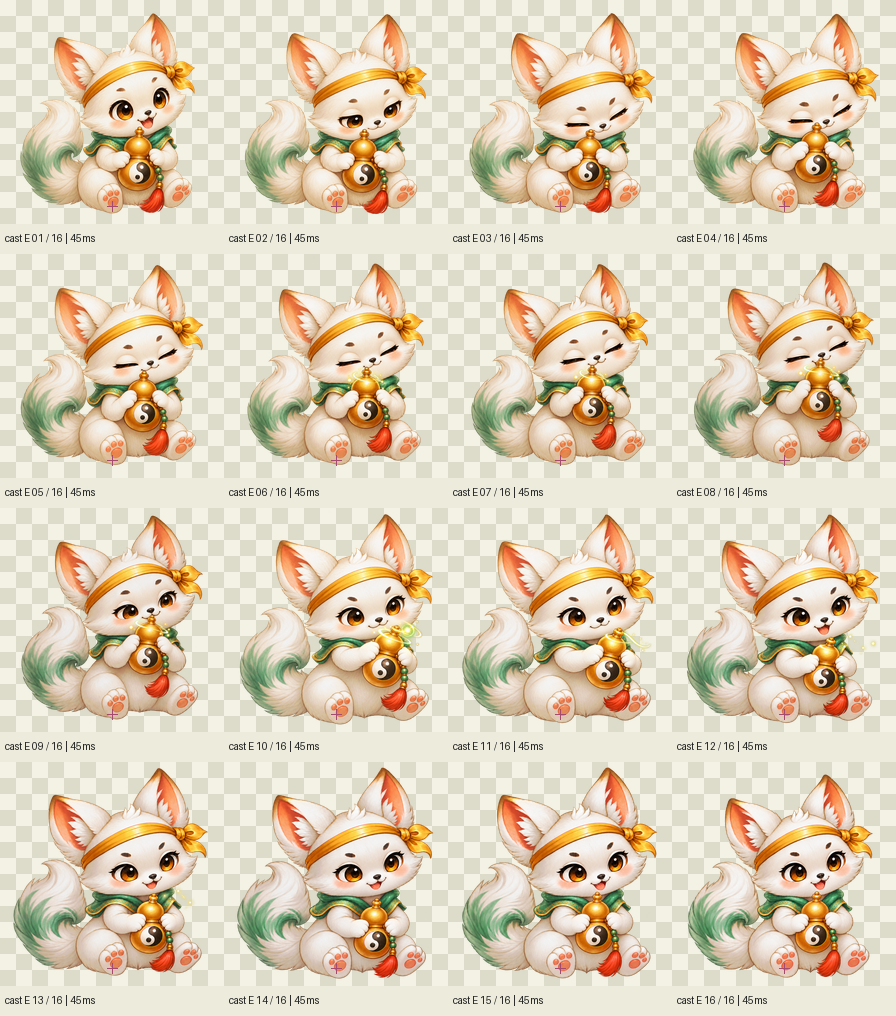
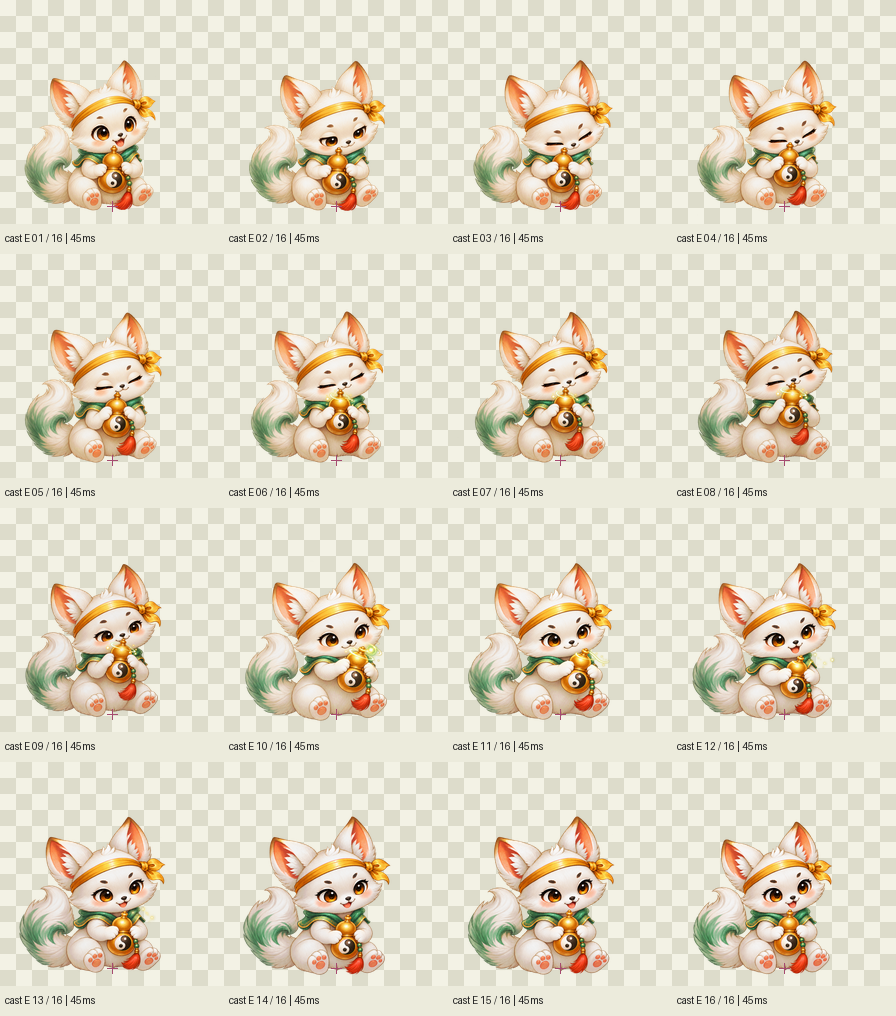
Save game artwork and production records batch 1818

diff --git a/designs/creature-combat-20261005/pets/legacy-hu-tuan-tuan/preview/cast-W/index.html b/designs/creature-combat-20261005/pets/legacy-hu-tuan-tuan/preview/cast-W/index.html
@@ -1,3 +1,3 @@
-<!doctype html><html lang="zh-CN"><meta charset="utf-8"><title>葫团团 W 施法验收</title><style>body{font-family:system-ui;background:#ece8dc;color:#193c31;margin:24px}button,select,input{font:inherit;margin:5px;padding:8px}canvas{background:repeating-conic-gradient(#d4d4cd 0% 25%,#ecece6 0% 50%) 0/32px 32px;max-width:75vh;max-height:75vh;border:1px solid #888}img{width:min(100%,1280px)}p{margin:8px}</style><h1>葫团团 W 施法 · 16 帧 × 45 ms</h1><p>固定完整画布，不做逐帧对齐。红十字为名义锚点 (512,942)。</p><button id="play">播放</button><button id="pause">暂停</button><button id="prev">上一帧</button><button id="next">下一帧</button><select id="speed"><option value="1">正常速度</option><option value="0.25">0.25 慢放</option></select><input id="seek" type="range" min="1" max="16" value="1"><b id="readout">01 / 16</b><p><canvas id="screen" width="1024" height="1024"></canvas></p><details><summary>逐帧总览</summary><img src="contact.png"></details><script>
+<!doctype html><html lang="zh-CN"><meta charset="utf-8"><title>葫团团 W 施法验收</title><style>body{font-family:system-ui;background:#ece8dc;color:#193c31;margin:24px}button,select,input{font:inherit;margin:5px;padding:8px}canvas{background:repeating-conic-gradient(#d4d4cd 0% 25%,#ecece6 0% 50%) 0/32px 32px;max-width:75vh;max-height:75vh;border:1px solid #888}img{width:min(100%,1280px)}p{margin:8px}</style><h1>葫团团 W 施法 · 16 帧 × 45 ms</h1><p>固定完整画布，不做逐帧对齐。红十字为名义锚点 (512,942)。</p><button id="play">播放</button><button id="pause">暂停</button><button id="prev">上一帧</button><button id="next">下一帧</button><select id="speed"><option value="1">正常速度</option><option value="0.25">0.25 慢放</option></select><input id="seek" type="range" min="1" max="16" value="1"><b id="readout">01 / 16</b><p><canvas id="screen" width="1024" height="1024"></canvas></p><details><summary>逐帧总览</summary><img src="../contact-cast-W.png"></details><script>
 const images=Array.from({length:16},(_,i)=>{const im=new Image;im.src='../../runtime/cast/W/'+String(i+1).padStart(2,'0')+'.png';return im});const c=document.querySelector('canvas'),g=c.getContext('2d'),seek=document.querySelector('#seek'),readout=document.querySelector('#readout');let frame=0,playing=false,start=0,startFrame=0;function draw(){g.clearRect(0,0,1024,1024);if(images[frame].complete)g.drawImage(images[frame],0,0);g.strokeStyle='#c90000';g.beginPath();g.moveTo(502,942);g.lineTo(522,942);g.moveTo(512,932);g.lineTo(512,952);g.stroke();seek.value=frame+1;readout.textContent=String(frame+1).padStart(2,'0')+' / 16';document.body.dataset.frame=frame+1;document.body.dataset.playing=playing;}function tick(t){if(playing){frame=(startFrame+Math.floor((t-start)*Number(document.querySelector('#speed').value)/45))%16;draw()}requestAnimationFrame(tick)}document.querySelector('#play').onclick=()=>{playing=true;start=performance.now();startFrame=frame;draw()};document.querySelector('#pause').onclick=()=>{playing=false;draw()};document.querySelector('#prev').onclick=()=>{playing=false;frame=(frame+15)%16;draw()};document.querySelector('#next').onclick=()=>{playing=false;frame=(frame+1)%16;draw()};seek.oninput=()=>{playing=false;frame=Number(seek.value)-1;draw()};document.querySelector('#speed').onchange=()=>{start=performance.now();startFrame=frame};images.forEach(im=>im.onload=draw);draw();requestAnimationFrame(tick);
 </script></html>
